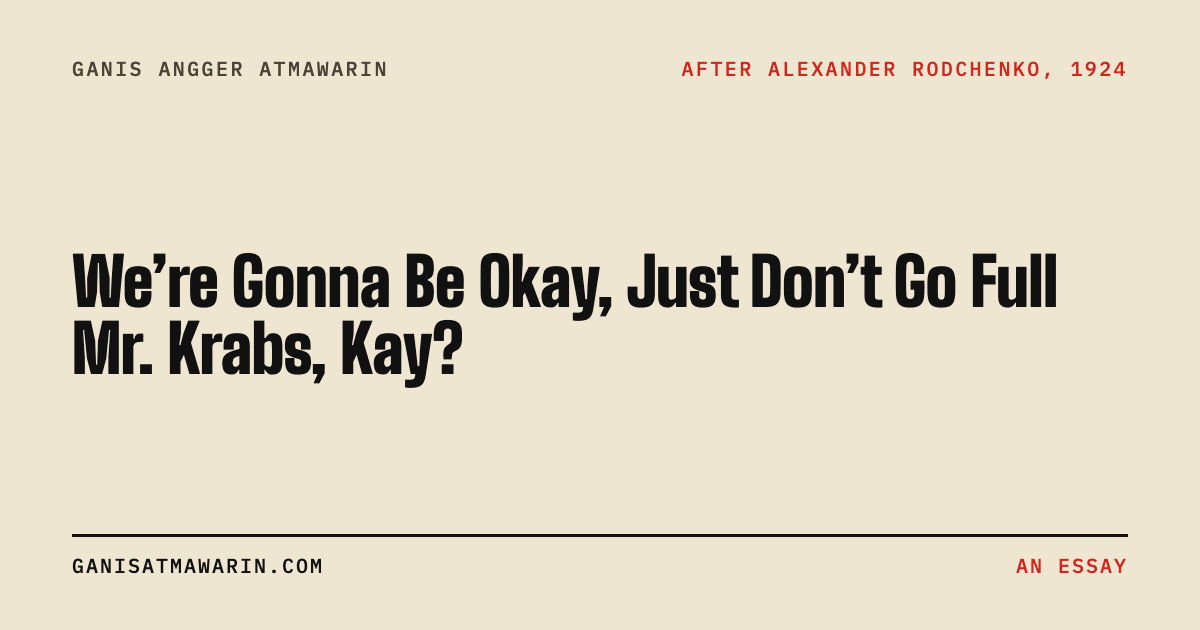
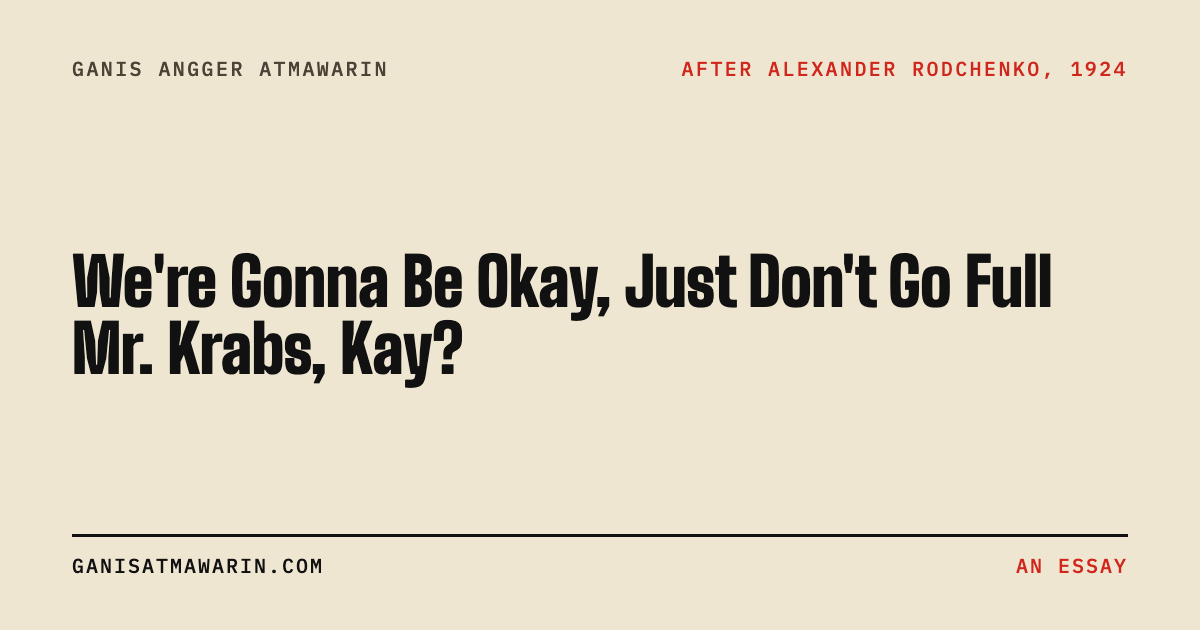
content: Seventy-One Keyboards, set after Giovanni Pintori
A fifth new essay from the Browntosaurus database (CSV exports and two
screenshots of the shared Airtable view). New Pintori/Olivetti theme.
Silver Is Incompetence now links to it instead of repeating it.

Changed region(s): [[0.1233, 0.3921, 0.8942, 0.5127]]

diff --git a/assets/css/themes/pintori.css b/assets/css/themes/pintori.css
@@ -1,0 +1,28 @@
+/* Giovanni Pintori, Olivetti 1953: keys as confetti, red and yellow on cream. */
+.theme-pintori { --p-bg:#f6f1e7; --p-ink:#1d1b18; --p-muted:#5e574c; --p-accent:#d7262a; --p-rule:rgba(29,27,24,.18);
+  --p-display:'Bricolage Grotesque','Helvetica Neue',sans-serif; --p-text:'Lora',Georgia,serif; --p-meta:'Bricolage Grotesque',sans-serif; --p-measure: 36em; --p-size: clamp(1.08rem,1.2vw,1.2rem); --p-lh:1.65; }
+.theme-pintori .piece { overflow: hidden; }
+.theme-pintori .piece__ornament { display: block; position: absolute; inset: 0 0 auto 0; height: 560px; pointer-events: none; }
+.theme-pintori .piece__ornament span { position: absolute; display: grid; place-items: center; width: 56px; height: 56px; border-radius: 8px; font: 800 1.6rem 'Bricolage Grotesque', sans-serif; color: #fff; box-shadow: 0 5px 0 rgba(0,0,0,.25); }
+.theme-pintori .piece__ornament span:nth-child(1) { right: 8%; top: 70px; background: #d7262a; transform: rotate(-12deg); }
+.theme-pintori .piece__ornament span:nth-child(1)::before { content: "7"; }
+.theme-pintori .piece__ornament span:nth-child(2) { right: 18%; top: 170px; background: #f2b632; color: #1d1b18; transform: rotate(9deg); }
+.theme-pintori .piece__ornament span:nth-child(2)::before { content: "1"; }
+.theme-pintori .piece__ornament span:nth-child(3) { right: 4%; top: 260px; background: #1b5fa8; transform: rotate(18deg); }
+.theme-pintori .piece__ornament span:nth-child(3)::before { content: "K"; }
+.theme-pintori .piece__ornament span:nth-child(4) { right: 14%; top: 360px; background: #1d1b18; transform: rotate(-6deg); }
+.theme-pintori .piece__ornament span:nth-child(4)::before { content: "⌘"; }
+.theme-pintori .piece__head { position: relative; }
+.theme-pintori .piece__title { font-weight: 800; font-size: clamp(2.8rem, 8vw, 6.6rem); line-height: .9; letter-spacing: -.03em; max-width: 9ch; }
+.theme-pintori .piece__title::first-letter { color: var(--p-accent); }
+.theme-pintori .piece__dek { font-style: italic; max-width: 30ch; }
+.theme-pintori .piece__byline { border-top: 4px solid var(--p-ink); font-weight: 600; }
+.theme-pintori .piece__body h2 { font-weight: 800; font-size: 1.7rem; letter-spacing: -.01em; }
+.theme-pintori .piece__body h2::before { content: ""; display: inline-block; width: .7em; height: .7em; border-radius: 4px; background: var(--p-accent); margin-right: .4em; transform: rotate(-8deg); }
+.theme-pintori .piece__body h2:nth-of-type(3n+2)::before { background: #f2b632; }
+.theme-pintori .piece__body h2:nth-of-type(3n)::before { background: #1b5fa8; }
+.theme-pintori .piece__body figure { margin: 2em -8%; }
+.theme-pintori .piece__body figure img { border: 1px solid var(--p-rule); box-shadow: 8px 8px 0 #f2b632; }
+.theme-pintori .piece__body figcaption { font-family: 'Bricolage Grotesque', sans-serif; font-size: .8rem; margin-top: 14px; color: var(--p-muted); }
+.theme-pintori .piece__body blockquote { border-left: 6px solid #f2b632; font-style: italic; }
+@media (max-width: 760px) { .theme-pintori .piece__ornament { opacity: .3; } .theme-pintori .piece__body figure { margin: 2em 0; } }

diff --git a/content/articles/seventy-one-keyboards.md b/content/articles/seventy-one-keyboards.md
@@ -1,0 +1,85 @@
+---
+title: "Seventy-One Keyboards"
+description: "During the pandemic I bought, built, scored and sold seventy-one mechanical keyboards. I kept five. None of them is the best one."
+dek: "I scored seventy-one keyboards in a database, sold the two best, and kept the one that doesn't hurt."
+seo_title: "Seventy-One Keyboards"
+date: 2026-10-02
+tags: ["life", "design"]
+style: "pintori"
+lang_code: "en"
+image: "images/og/seventy-one-keyboards.png"
+---
+
+As far as I can reconstruct it, the first one was an Anne Pro 2. It's a small keyboard, about the size of a paperback, and it makes a pleasant clacking sound, and I bought it in 2020 because I was at home all day and my laptop keyboard had started to feel like typing on a biscuit.
+
+In my notes, under "Pros", I wrote: *Gateway to the drug.*
+
+I meant it as a joke. I'd like that on the record.
+
+---
+
+## The database
+
+Eventually there were seventy-one of them.
+
+I know the number because I built a database. It's called Browntosaurus. It has a dinosaur emoji, and it has tabs: one for keyboards, one for keycaps, one for switches, one called "Experience" and one called "Build Goal". Every keyboard has a photo, a status, and a score made from five columns: aesthetics, build quality, typing feel, features and sound. Sound counts double. I decided that at some point and wrote it into the column name, "Sound Pref (2x)", so that future me couldn't argue.
+
+{{< figure src="images/articles/keyboards/browntosaurus-gallery.jpg" alt="Browntosaurus gallery view: photographs of mechanical keyboards ranked by score" caption="Browntosaurus, gallery view, sorted by score. It is a shared view, which means somewhere a stranger can see this." >}}
+
+There are thirty-nine keycap sets in there, and forty-three kinds of switches, each rated one to five. One of my top-rated switches is a retooled Cherry MX Black, which is in the build plan for six different boards, including the one ranked first. I mention this so you understand that the keyboards are only the visible part. Underneath them is a whole economy of small plastic parts, each with its own row.
+
+I'd like to say I'm not proud of it. I'm a bit proud of it.
+
+## What I wrote about each one
+
+The best part of Browntosaurus isn't the scores. It's the notes, because I wrote them at night, alone, in the voice of a man reviewing wine.
+
+Of the Alice Copper: *Mother of Thocc. The thocc of the thocciest thocc. Thocc reborn.* "Thocc" is the deep, round sound a good keyboard makes, and it's the main thing people in this hobby are chasing. I used it three times in one line and then went on to complain about the screws.
+
+Of a numpad, a small separate block of number keys that nobody needs: *Are you even keyboard enthusiast without numpad?*
+
+Of the 40% layout, which removes the number row and makes you hold a second key to type a 7: *Pain. Jari keriting.* That means "curly fingers". *Kudos to people who can do this!*
+
+Of the 60% layout: this is the layout that drags people into the deepest valley of mechanical keyboards. I wrote this in Indonesian, as a warning, and then I went into the valley.
+
+Of the IBM Model M, the beige 1980s keyboard that weighs about as much as a small dog and that people in this hobby speak of the way monks speak of the Gutenberg Bible: *Keyboard alien. Cockpit.*
+
+Of the IBM Model F, which is older and more revered: *rugged.* One word. I had nothing else to say. It scored 24, which is very high, and I sold it.
+
+## The sixty-six
+
+That's the pattern, and it took me a long time to notice it. Sixty-six of the seventy-one keyboards have the status "Sold/Returned".
+
+{{< figure src="images/articles/keyboards/browntosaurus-ranked.jpg" alt="Browntosaurus master view: a ranked table of keyboards with star ratings for aesthetics, build quality, sound, typing and features" caption="The master view. Count the orange 'Sold/Returned' tags. Then count the green ones." >}}
+
+The two highest-scoring keyboards I've ever owned are both on that list. One is the Matrix 1.2OG, about which I wrote, *Might be board paling ganteng yang pernah dipegang*: maybe the most handsome board I've ever held. It scored 26. The other is the Jaguar, which I described as having *near damn perfect keyboard sound* and weighing so much that *if you keep moving board all around, this is just ridiculously heavy.* It also scored 26.
+
+I sold them both.
+
+I've tried to work out why. They were perfect, and perfect turned out to be a strange thing to own. You stop typing on it and start guarding it. You notice the one key that's a little scratchy. You write in the build notes, *Rebuild to fix the scratchiness*, and the best keyboard you've ever owned becomes a project with an open ticket.
+
+There's a line in another build note that I think explains the whole hobby: *Reprint the Browntosaurus logo and make it more centered.* That's a note about the sticker I made for my own database.
+
+## The five
+
+So what did I keep?
+
+I kept a numpad that, in my own words, *can seem like a meme*. I kept a heavy board called Sagittarius, which weighs *3.1 or 3.2 kg* and about which I wrote that it *feels like a keyboard that you can still use 10 years in the future.* I kept the Alice Copper, the Mother of Thocc. I kept an Alice in polycarbonate. And I kept one called Libra40, which has never been scored at all. The spreadsheet gives it a zero.
+
+Four of the five are Alices. An Alice is a keyboard bent in the middle, its two halves angled apart, so that your hands sit the way hands actually want to sit, a little apart, wrists turned in. It's not a beautiful idea at first. It looks like a keyboard that has been dropped.
+
+My note on the Alice layout is the only honest review in the whole database. It says: I touch type, and the first two or three days were bitter. Three to five days in, I started to get used to it. After a week, I was fluent. And then, under "Pros", the line that matters:
+
+*Paling nyaman dipakai. Bisa dipakai berjam jam tanpa kuatir bahu cenut cenut.*
+
+The most comfortable to use. You can use it for hours without worrying that your shoulders will start to throb.
+
+---
+
+That's it. That's the review. After seventy-one keyboards and a five-column scoring system with sound counted double, the ones I kept aren't the ones that scored highest. They're the ones that took a week to learn and then never hurt.
+
+I think I knew this about other things before I knew it about keyboards. I just needed to spend a pandemic and an amount of money I'm not going to tell you to find it out with my hands.
+
+My 2021 annual review lists the biggest source of stress that year. It wasn't work, and it wasn't the pandemic. It was "keyboard-related debt." The database is still there, and it still says seventy-one. The Matrix and the Jaguar are still at the top of it, with their photos, sounding perfect in my memory.
+
+I don't own either of them. I own the ones that don't hurt.

diff --git a/content/articles/silver-is-incompetence.md b/content/articles/silver-is-incompetence.md
@@ -59,11 +59,9 @@ Mobile Legends isn't my only offence. For a while, during the pandemic, it was m
 
 I ended up with, to use the technical term from my own notes, a "bajillion" of them. The real number is seventy-one. I know because there's a database. It's called Browntosaurus, it has a dinosaur emoji, and every keyboard gets a score built from aesthetics, typing feel, build quality, customisation and sound. Sound counts twice. I decided that, and I don't remember why.
 
-Sixty-six of the seventy-one have the status "Sold/Returned". Five are still in the house. The two highest-scoring keyboards I've ever owned, both at 26, are among the sixty-six I let go. One of the five I kept has never been scored at all, so the spreadsheet gives it a zero. I keep it anyway. I have no idea what that says about me.
-
 I also gave out medals, and the medals don't agree with the scores. There are two golds. One of them went to a keyboard scoring 20, which is lower than my silver (22) and my bronze (23). The IBM Model F, from 1981, the keyboard people in this hobby talk about the way monks talk about the Gutenberg Bible, scores 24 and didn't get a medal at all.
 
-I can't explain any of this. I built the system myself, with nobody watching, and I still couldn't keep it consistent. The biggest source of stress in my 2021 annual review, above work and the pandemic, was "keyboard-related debt."
+I can't explain any of this. I built the system myself, with nobody watching, and I still couldn't keep it consistent. (The whole sorry database is [here](/articles/seventy-one-keyboards/).) The biggest source of stress in my 2021 annual review, above work and the pandemic, was "keyboard-related debt."
 
 I'd like you to read that phrase again, slowly, and then picture me at a family dinner explaining it.
 
